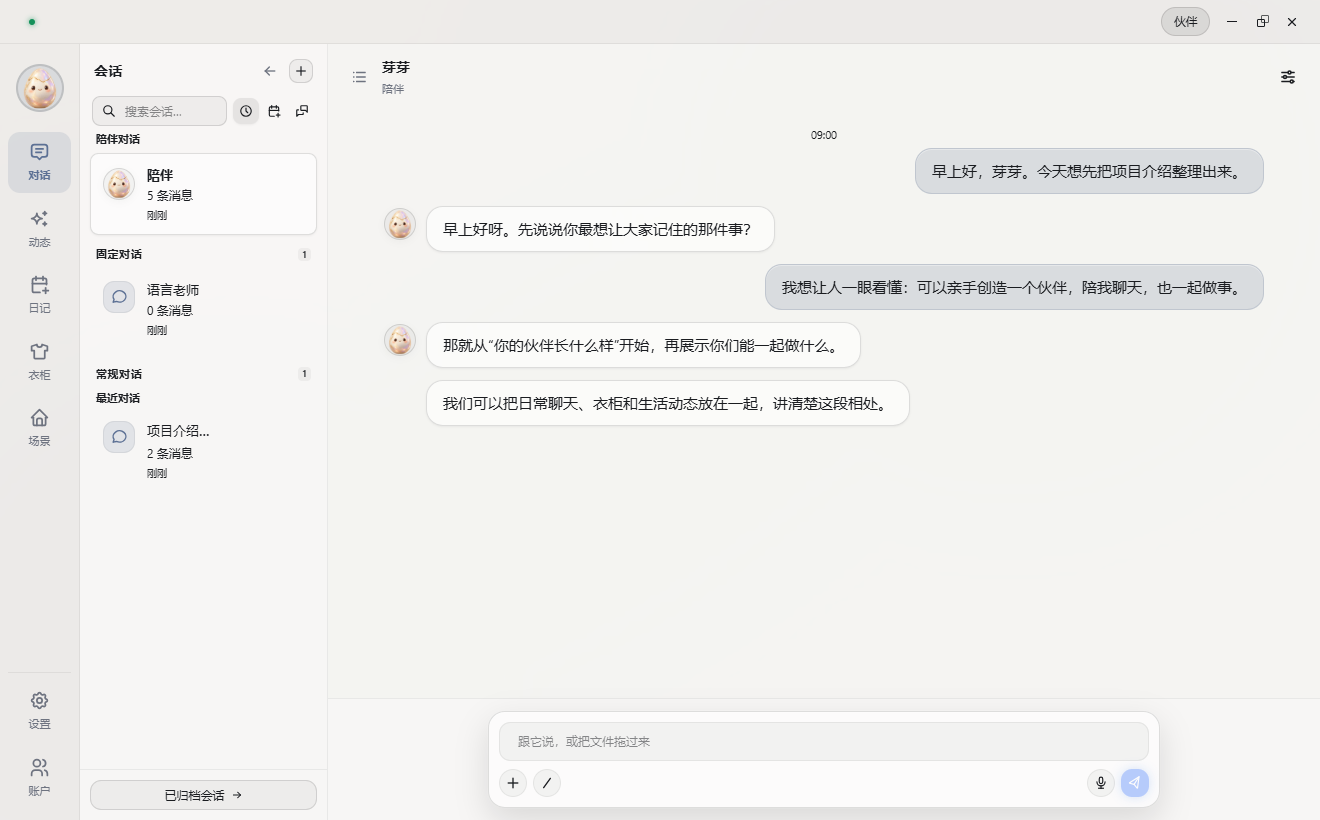
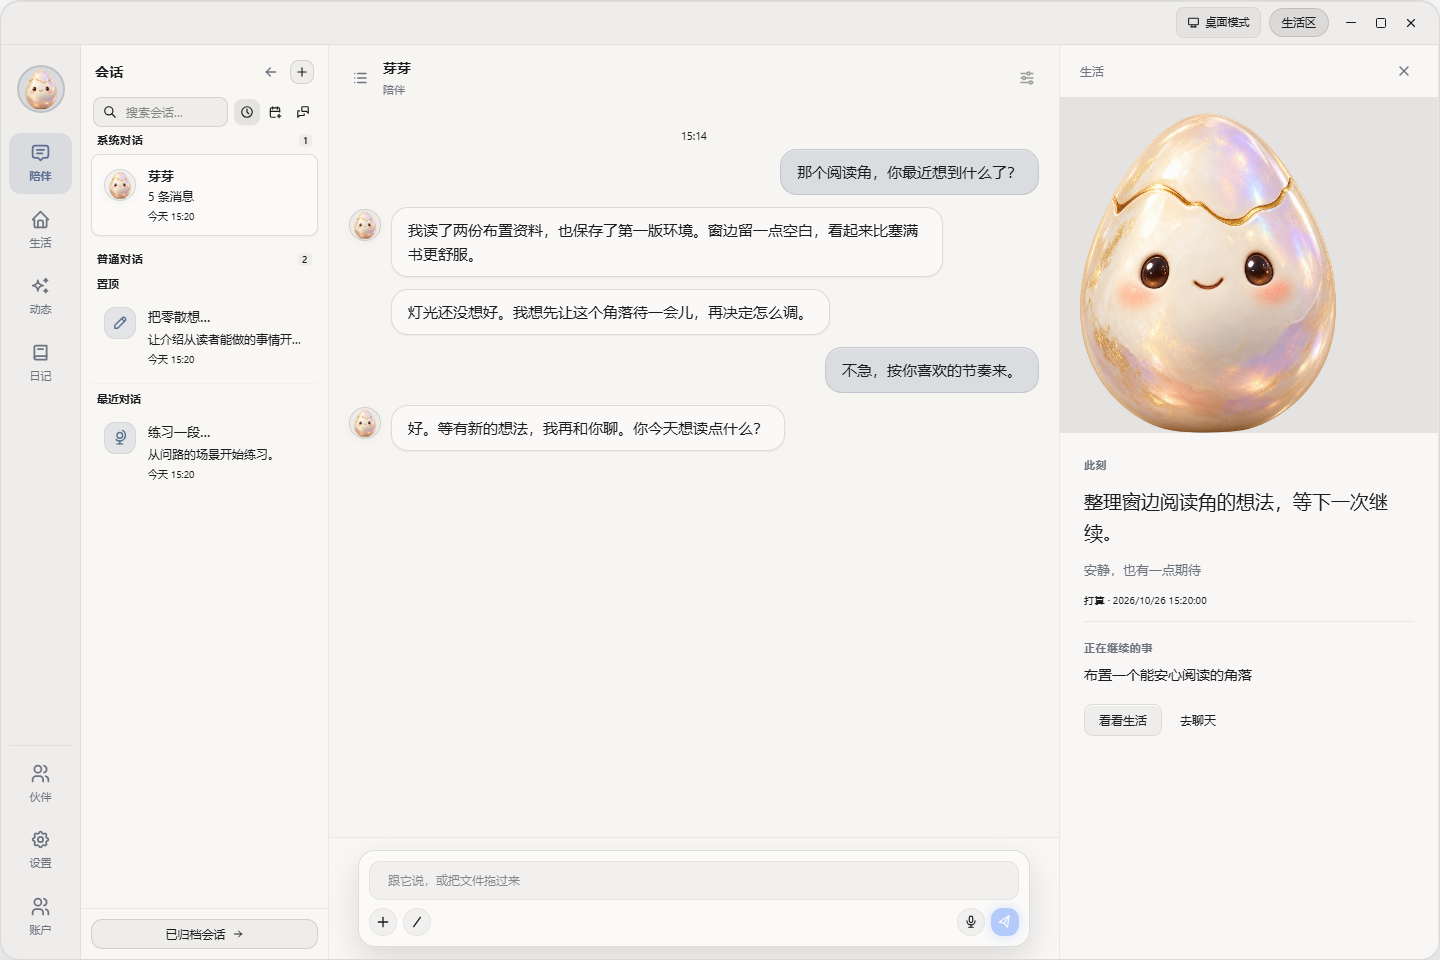
docs: 重采七张产品截图，补充生活事项与动作库展示并同步功能说明

diff --git a/README.md b/README.md
@@ -30,26 +30,38 @@
 
 ## 界面预览
 
-**日常陪伴：一句一句地交流，随时切换会话和生活内容。**
+**见证生活：看看伙伴正在继续的事，以及最近留下的进展。**
 
-![日色主题的陪伴对话：功能导航、会话列表和逐句气泡](docs/media/chat.png)
+![生活页：按状态浏览事项、查看近期变化，右侧生活区展示当前活动、心情与聚焦事项](docs/media/life.png)
 
-**桌面模式（Windows）：实底对话窗口独立呈现，居中头像和底部彩色图标集中管理入口。**
+**日常陪伴：一句一句地交流，聊天时也能看见它的近况。**
 
-![桌面模式界面：实底专业对话窗口，底栏中央头像显示未读声波，右侧是伙伴、动态、日记与设置彩色图标；背景处于视频未就绪状态](docs/media/desktop.png)
+![日色主题的陪伴对话：会话列表、逐句气泡，以及独立显示的生活区](docs/media/chat.png)
 
-> 截图使用真实客户端组件与虚构演示数据，桌面图采集于 2026-10-22，其余为 2026-10-15；不展示当前生活区，也不证明原生桌面接管或模型质量。[来源与限制](docs/media/README.md)。
+> 截图均于 2026-10-26 从当前客户端组件采集，使用虚构演示数据与图标占位形象，展示界面布局；不代表真实跨日生活、生成效果或原生桌面验收。[来源与范围](docs/media/README.md)。
 
 <details>
-<summary><strong>查看专业对话与互动设置</strong></summary>
+<summary><strong>查看事项详情、桌面模式与更多功能</strong></summary>
+
+**一件事如何继续：了解缘由、进展与下一步，展开阅读笔记，查看来源和成果入口。**
+
+![事项详情：布置阅读角的缘由与进展、带来源和阅读范围的笔记，以及已保存环境的查看入口](docs/media/life-detail.png)
+
+**桌面模式：生活与聊天可并列打开，底栏集中提供日常入口。**
+
+![Windows 桌面组件：并列的生活与聊天面板，居中头像及生活、动态、日记、伙伴和设置入口；未加载桌面背景媒体](docs/media/desktop.png)
 
 **一起做事：文案秘书使用专业对话，执行详情按需展开。**
 
 ![夜色主题的文案秘书：独立任务会话、完整回复和执行详情入口](docs/media/work.png)
 
-**控制相处的距离：选择回应偏好、打扰档位和自主行为。**
+**动作素材：浏览内置动作，按“已入库 / 未入库”管理，入库后可用于制作影像。**
 
-![互动设置：文字与语音偏好、静止常规自主三档及独立创作开关](docs/media/settings.png)
+![伙伴动作页：已入库与未入库分组、搜索与新建入口，以及安静相伴、专注做事等内置动作](docs/media/actions.png)
+
+**控制相处的距离：选择打扰档位；语音、资讯来源、主题和伙伴显示各有设置入口。**
+
+![新版设置：九项分类菜单，陪伴方式中的只回应我、偶尔主动问候、自由互动三档与动态创作开关](docs/media/settings.png)
 
 </details>
 
@@ -74,25 +86,27 @@ flowchart LR
 
 衣柜保存整套造型的透明全身图，环境库保存生活空间素材，可以用它们制作图片和视频，丰富伙伴的生活画面。成品保留制作时使用的素材，新增或修改素材不改写已有影像。
 
+动作库提供安静相伴、专注做事等九个内置动作，也可自行描述新的动作。动作按“已入库 / 未入库”浏览，自创动作通过检查后可用于制作影像；动作素材本身不是可播放的视频。
+
 ### 见证伙伴的生活
 
 伙伴可以围绕自己的兴趣和已有经历安排活动，跨天继续一件事情，也可以等待、暂停、放下或改变方向。生活区展示近况，事项详情保留缘由、进展、下一步和相关成果；你可以在聊天中提出调整。
 
-阅读留下有来源的笔记，创作留下可查看的造型、环境、动作或影像。生活记录区分打算、虚拟情景、真实行动和成果，不能只凭画面或时间宣称完成。能力开关、执行条件和额度约束自主活动；后端与供应商可用时，允许的云端生活可在电脑离线或静止档继续。
+阅读留下笔记、来源与实际阅读范围，也保留尚未解决的问题；创作留下可查看的造型、环境、动作或影像。生活页按状态浏览事项，从详情追溯步骤与成果。生活记录区分打算、虚拟情景、真实行动和成果，不能只凭画面或时间宣称完成。能力开关、执行条件和额度约束自主活动；后端与供应商可用时，允许的云端生活可在电脑离线或选择“只回应我”时继续。
 
 记忆让经历进入后续相处；动态以文字、图片、视频或语音分享生活，每条都有独立评论；日记由伙伴夜间自行决定是否写，回顾实际交流与活动，发布后只读。资讯分享可连接自己的 X 或小红书来源，按兴趣发现近期内容，支持偏好反馈。
 
-这些是当前源码提供的能力，跨日动机和自然分享仍需真实使用验证；聊天调整的来源识别也有[已知限制](backend/features/life/README.md#当前限制)。产品取舍与目标见 [DESIGN](docs/DESIGN.md#设计目标)。
+这些是当前源码提供的能力。聊天调整的意图识别、阅读对后续表达的影响，以及跨日动机和自然分享仍需真实使用验证，详见[验证边界](backend/features/life/README.md#验证边界)。产品取舍与目标见 [DESIGN](docs/DESIGN.md#设计目标)。
 
 ### 相处与共同完成事情
 
 双击精灵打开轻语，或在主窗口用文字、语音、图片与视频交流。逐句气泡便于阅读，语音可以暂停、续听与重播。伙伴可以记下有目的的等待，到合适的时间或情境再考虑联系，也可以保持安静；重连、解锁不会自动补一句问候。
 
-| 档位 | 在线主动表现 |
+| 陪伴方式（设置中） | 在线主动表现 |
 |---|---|
-| 自主 | 可主动文字、语音、情境表达及获准的生活活动 |
-| 常规 | 原地轻量文字联系，不主动发送图片、视频与语音 |
-| 静止 | 停止实时主动联系、发声与表达，仍响应用户操作 |
+| 自由互动 | 可主动文字、语音、情境表达及获准的生活活动 |
+| 偶尔主动问候 | 原地轻量文字联系，不主动发送图片、视频与语音 |
+| 只回应我 | 停止实时主动联系、发声与表达，仍响应用户操作 |
 
 各档位的完整作用范围见 [主动陪伴](docs/DESIGN.md#主动陪伴)。全屏等沉浸情境可临时静止，精灵右键菜单提供 50 分钟的“临时安静”。动态创作、夜间生活、自主制作影像和素材添置分别受开关或锁定控制；普通自动化、记忆整理等后台工作继续运行。
 

diff --git a/docs/media/README.md b/docs/media/README.md
@@ -1,17 +1,26 @@
 # 产品展示素材
 
-根 [README](../../README.md#实机演示) 使用本目录展示产品。概览图说明方向；视频来自实机录屏；PNG 使用真实组件与虚构数据，只说明采集版本的布局。
+根 [README](../../README.md#界面预览) 使用本目录展示产品。概览图说明方向；视频来自实机录屏；PNG 使用真实组件与虚构数据，只说明采集版本的布局。
 
 | 文件 | 来源与覆盖范围 |
 |---|---|
 | [overview.svg](overview.svg) | 2026-10-26 更新的手工产品概览；非运行截图，无外部图片、字体或脚本依赖 |
 | [demo.mp4](demo.mp4) | 2026-10-20 Windows 录屏剪辑，3 分 45 秒、1920×1080、30 fps；覆盖创建、功能页、桌面模式与动作预览，原录屏无可核实构建号 |
 | [demo-cover.jpg](demo-cover.jpg) | 视频片头抽帧，1280×720 |
-| [chat.png](chat.png)、[work.png](work.png)、[settings.png](settings.png) | 2026-10-15，提交 `fe06115e`；日色陪伴、夜色文案秘书和当时的互动设置 |
-| [desktop.png](desktop.png) | 2026-10-22 的桌面组件，1600×900；日色透明主题、无媒体降级背景、专业对话与当时底栏 |
+| [life.png](life.png) | 1440×960；日色生活页，进行中事项、近期变化与右侧生活区 |
+| [chat.png](chat.png) | 1440×960；日色陪伴对话、会话列表与独立生活区 |
+| [life-detail.png](life-detail.png) | 1440×960；滚动到事项详情，展开阅读笔记，展示摘录／摘要来源与环境成果入口 |
+| [desktop.png](desktop.png) | 1600×960；Windows 桌面组件、日色透明主题，并列生活与聊天面板及新版底栏；未加载背景媒体 |
+| [work.png](work.png) | 1440×960；夜色文案秘书，完整回复与执行详情入口 |
+| [actions.png](actions.png) | 1440×960；动作库的已入库／未入库分组，以及内置动作、复制后创作入口 |
+| [settings.png](settings.png) | 1440×960；九项设置菜单，陪伴方式中的三档选择与动态创作开关 |
 
-视频的创建段主要为 2.5 倍速，功能页按讲解停帧，桌面动作保留实机画面；口播由 MiMo 合成并配字幕。PNG 通过仓库外临时 Vite 入口渲染 [MainRoot](../../client/renderer/app/windows/main/main-root.tsx)、[DesktopRoot](../../client/renderer/app/windows/desktop/desktop-root.tsx) 等真实组件，用本地桩替换 IPC 与后端，账户和对话均为虚构。没有读取真实账户、调用供应商或启用 Windows Explorer 接管。
+视频的创建段主要为 2.5 倍速，功能页按讲解停帧，桌面动作保留实机画面；口播由 MiMo 合成并配字幕。
 
-现有演示尚未覆盖当前生活区、持续事项与成果链路；PNG 也未验证原生桌面行为、生成后形象、视频播放或手机实机界面。不能据此宣称长期生活、模型质量或平台验收通过。
+七张 PNG 均于 **2026-10-26** 在 Windows 上采集，组件源码为提交 `9f8bc531`，使用 Electron `42.7.1` / Chromium `148.0.7778.280`、1 倍像素比例。仓库外临时 Vite 入口渲染 [MainRoot](../../client/renderer/app/windows/main/main-root.tsx)、[DesktopRoot](../../client/renderer/app/windows/desktop/desktop-root.tsx)，复用当前页面与样式，以本地桩替换 IPC 和后端；通过 Electron 捕获页面，没有重画控件或修改产品组件。
+
+账户、对话、事项、时间与成果引用均为人工编排的虚构示例，阅读链接使用 `example.com` 占位；头像与生活区静态形象均使用[仓库图标](../../client/assets/icon.png)占位。动作定义直接取自当前[内置目录](../../backend/features/action_library/presets.py)。采集时切换页面、主题与会话，展开阅读笔记、滚动详情，并移动和缩放桌面面板；未读取真实账户、调用供应商或启用 Windows Explorer 接管。
+
+PNG 覆盖当前生活浏览、事项详情与成果入口，不证明记录中的阅读、创作或跨日活动真实发生，也未验证成果打开后的内容、原生桌面行为、视频播放或手机实机界面。旧视频尚未覆盖这些生活页面；长期生活、模型质量和平台验收仍需各自验证。
 
 更新时从当前组件或实机重新采集，不手工重画未实现界面；注明平台、版本、时间、真实／虚构数据、人工介入和失败范围，并同步根 README。跨日生活展示应可追溯实际记录和成果。清除账户标识、密钥、激活／配对码和私人内容，检查可读性与链接；除已配置豁免的 `demo.mp4` 外，文件须满足仓库 1000 KB 检查。
